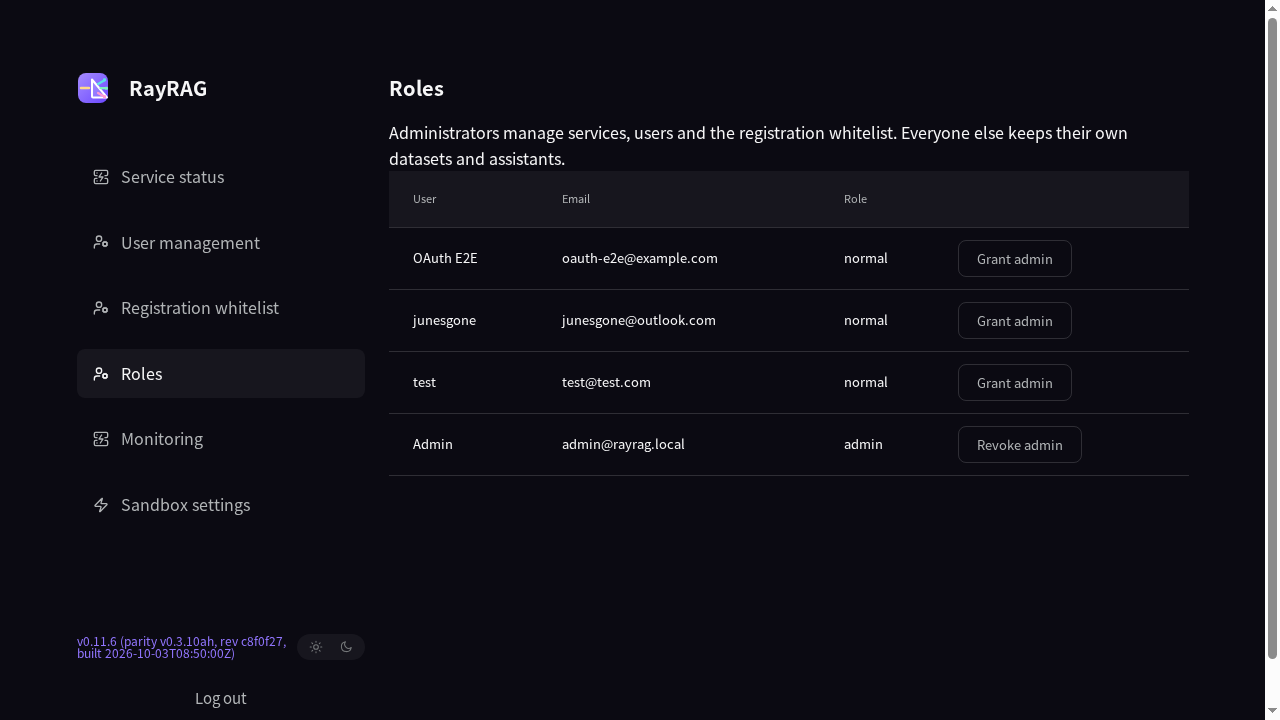
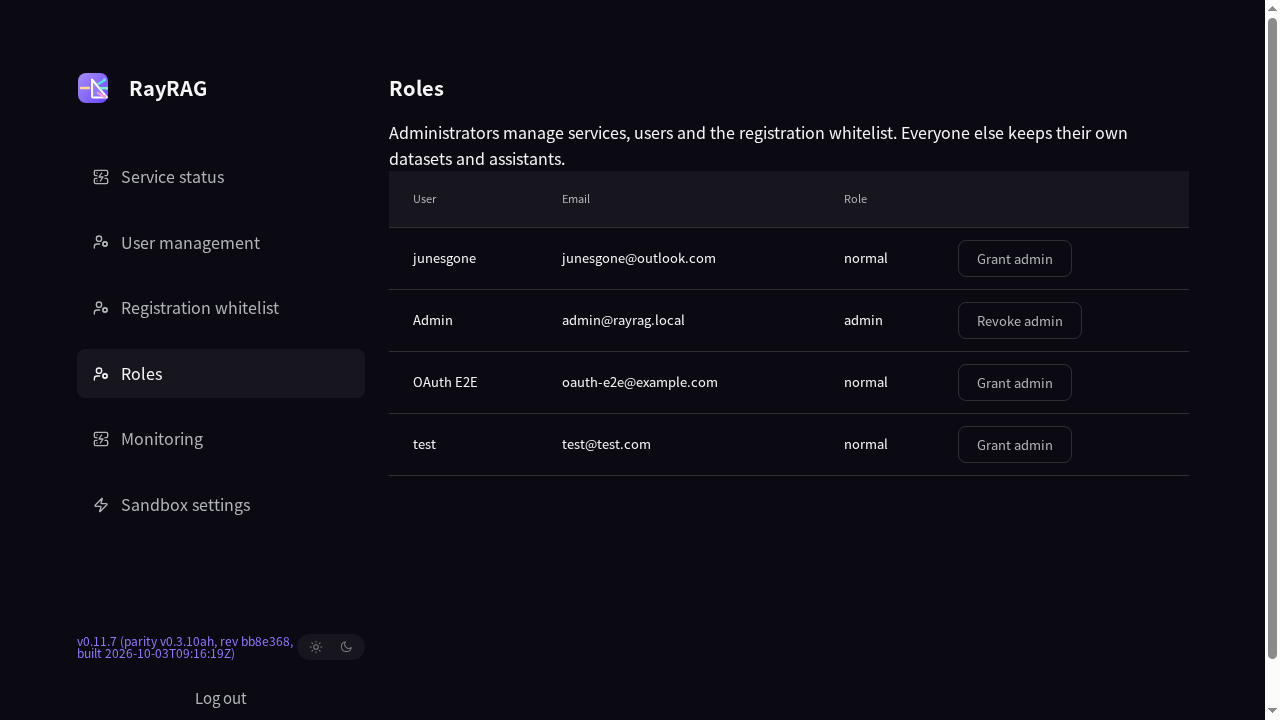
ops: record 0.11.7 evidence

diff --git a/运维记录.md b/运维记录.md
@@ -33,6 +33,29 @@
 
 ## 记录
 
+### 2026-10-03 — RayRAG 0.11.7：聊天路径上最后两处 id 口径分离
+
+1. **0.11.5/0.11.6 对齐了集合与单条动词，还剩两处**：`POST /api/v1/chats/{chat_id}/completions` 的路径参数在 RayRAG 是**会话**（说明书是**助手**）；
+   会话消息动词挂在 `/api/v1/chats/{session_id}/messages/...`（说明书把它们放在 `/chats/{chat_id}/sessions/{session_id}/messages/...`）。
+2. **改法**：
+   - `POST /api/v1/chats/{chat_id}/completions` → 路径参数＝**助手**：助手不存在 → **102**；`session_id` 不存在 → **102 `Session not found!`**；
+     **无 session_id → 自动建会话**并用助手自己的 `dataset_ids`/`llm_id` 初始化、**把会话绑定到该助手**（说明书原话）。
+   - 会话动词迁到点名自己的端点：`POST /api/v1/conversations/{id}/completions`、`DELETE/POST /api/v1/conversations/{id}/messages/{msg_id}`（含 `/regenerate`、`/feedback`）。
+   - **请求体接受说明书字段名**：`session_id`←`conversation_id`、`chat_id`←`app_id`，说明书客户端无需翻译。
+3. **实机验证（0.11.7，rev `bb8e368`）**：
+   - 未知助手 → **HTTP 404 `{"code":102,"message":"no authorization"}`**；
+   - 已知助手下未知 `session_id` → **HTTP 404 `{"code":102,"message":"Session not found!"}`**；
+   - 无 `session_id` → 自动建会话：`sessions bound to the assistant: 1`，`name='first question'`，**`app_id` 与 `chat_id` 均等于助手 id**（绑定生效，且兼容别名一致）；
+   - 回答本身返回**显式错误**：`"answer":"Error: error sending request for url (http://172.29.0.1:8088/v1/chat/completions)"`
+     —— 这是用户当前**未启动聊天服务**的环境事实，**被明确报出而不是静默成功**；
+   - `/chat` 页：0 page error；`GET /api/v1/chats -> 200`、`POST /api/v1/conversations -> 200`（UI 已跟随迁移）；
+   - 容器 panic **0**；验证产生的助手/会话**已清理**（assistants left: 0）。
+4. **验证**：全量 `cargo test --locked --lib` **2176 passed / 0 failed**（新增：未知助手/未知会话均 `102`，且无 session 时自动建会话并绑定）；
+   `verify-all.sh` **ALL CHECKS PASSED**（parity：upstream=181 rayrgg=311 missing=23）；构建 305 秒。
+5. **仍未对齐（登记，需单独一轮）**：`POST /api/v1/chat/completions` 在 RayRAG 上绑定的是 **OpenAI 形状**的处理器，
+   而说明书要求三种模式与 `{code,message,data:{answer,reference}}` 形状。**这是形状差异而非改名问题**，需单独改造，本轮不动。
+6. **发布**：见发布段。
+
 ### 2026-10-03 — RayRAG 0.11.6：`/api/v1/chats/{chat_id}` 单条动词对齐
 
 1. **0.11.5 把集合对齐了，单条还是旧语义**：`GET/PUT/PATCH/DELETE /api/v1/chats/{id}` 仍在操作**会话**，
